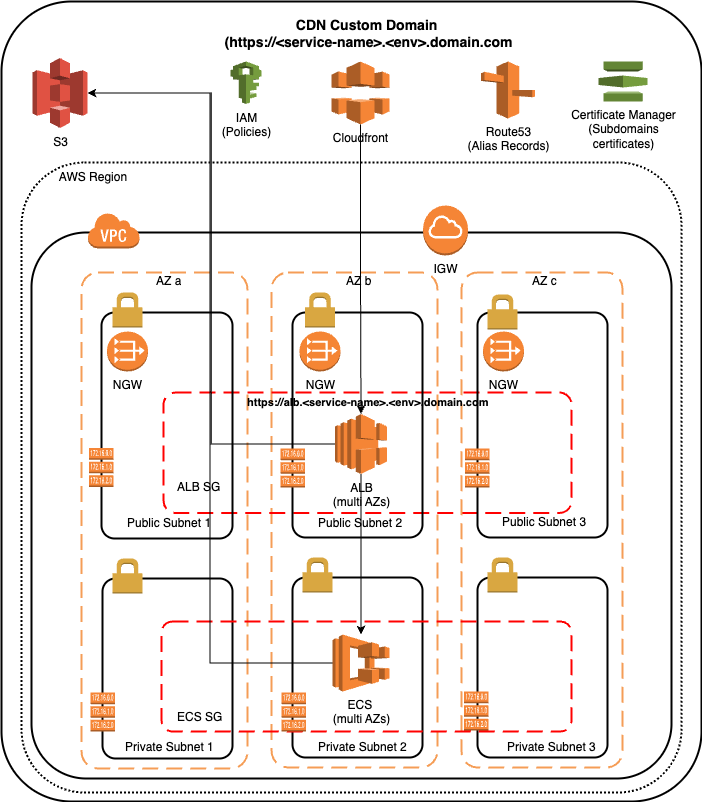
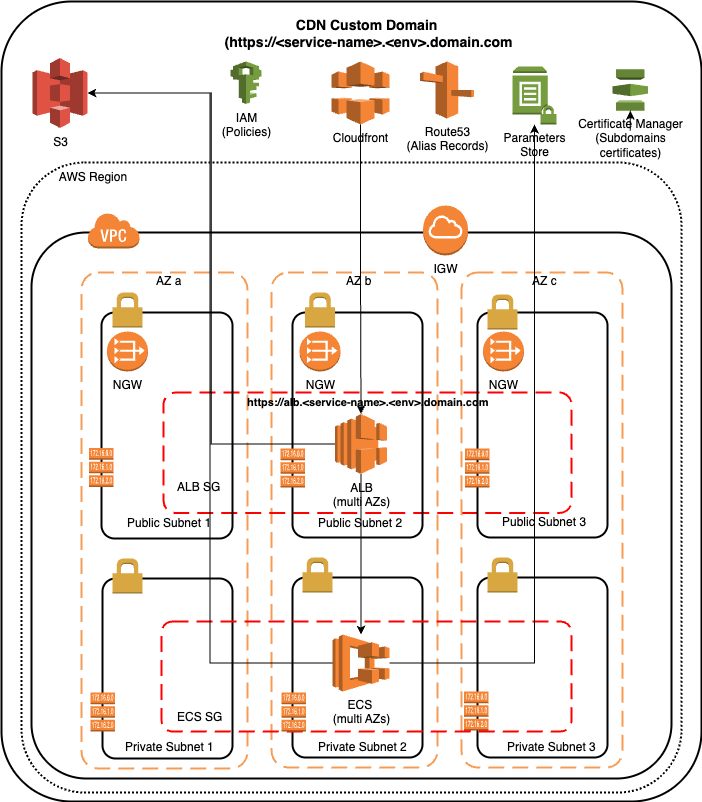
- Added the parameters store integration in ECS Task definition     - Saved the secret string in parameter store     - Moved to a default Custom image (cillu/nodejs-app:1.0.0)     - Updated the README file

Changed region(s): [[0.5684, 0.0623, 0.9573, 0.2182]]

diff --git a/nodejs-app/app.js b/nodejs-app/app.js
@@ -1,0 +1,11 @@
+const express = require('express');
+const app = express();
+const secret = process.env.APP_SECRET_PARAMETER;
+
+app.get('/', (req, res) => {
+  res.send(`<center><h1>Hello from the node-js App for Terraform DevOps Test!<center></h1><br> This is a secret from AWS Parameter Store:<b> ${secret} </b>`);
+});
+
+app.listen(3000, () => {
+  console.log('App running on port 3000');
+});

diff --git a/README.md b/README.md
@@ -18,6 +18,7 @@ The module creates the following resources:
 - **ECS Cluster**: an ECS Cluster Multi-AZ in created in the public subnets. 
   - **ECS Tasks and Service**: ECS resources are created in order to deploy the provided image 
   - **ECS Security Group**: a security group is created and assigned to the ECS Service in order to allow the traffic only from the ALB
+- **Secret string in Parameter Store**: a secret string used from the deploted node-js app
 - **Application Load Balancer**: an Multi-Az ALB is deployed in the public subnets. 
   - **ALB Listeners**: the ALB is configured with the following rules:
     - Cloudfront sends a Custom Header that contains a header with a pre-defined key. ALB deny access with an error 403 if the key doesn’t match. Otherwise it forward the request the ECS Service instances
@@ -53,10 +54,11 @@ Module Input Variables
 | service_name |  string | Yes | - | The name of the service
 | environment | string  | Yes | - | The environment (e.g., dev, staging, prod)
 | cdn_secret_header | string | Yes | - | Predefined Key for the CDN secret header
+| app_secret_parameter | string | Yes | - | Secret String used from the nodejs App (cillu/nodejs-app:1.0.0)
 | zone_id | string | Yes | - | Route53 zone ID (used to create the custome domain for CF and ALB)
 | aws_region | string | No | eu-central-1 | The target AWS region
 | vpc_cidr | string  | No | 192.168.0.0/16 | The CIDR block for the VPC
-| app_image |  string | No | duplocloud/nodejs-hello:latest | The deployed application image (on DockerHub)
+| app_image |  string | No | cillu/nodejs-app:1.0.0 | The deployed application image (on DockerHub)
 | app_port | number | No | 3000 | The deployed application port
 | app_fargate_cpu |  string | No | 256 | The amount of Fargate CPU to use
 | app_fargate_memory | string | No | 512 | The amount of Fargate memory to use
@@ -75,7 +77,10 @@ Usage
 
 Assuming:
 - you downloaded this module locally 
-- you have a secrets.tfvars file which contains the CDN secrets value (variable cdn_secret_header). (**Don't commit this file in your repository**)
+- you have a secrets.tfvars file (don't commit this file in your repository) which contain:
+  - the CDN secret value (variable cdn_secret_header)
+  - the provided zone_id
+  - the app_secret_parameter = "mysecret"
 
 
 ### Deploy a dev stack in eu-central-1
@@ -133,12 +138,13 @@ git clone https://github.com/thecillu/devops-aws-tf
 - cd to an example dir:
 cd devops-aws-tf/examples/eu-central1-dev
 
-- create the file secrets.tfvars contains your sensitive variables
+- create the file secrets.tfvars containing your sensitive variables
 
 secrets.tfvars
 ```
 cdn_secret_header = "MySecretHeader"
 zone_id = "<your-zone-id>"
+app_secret_parameter = "mysecret"
 ```
 - create the stack:
 
@@ -151,12 +157,17 @@ this will provide you the following output:
 app_https_url="https://my-service.dev.<your-zone-domain>"
 ```
 
+- Open the provided url in the browser, the app should show:
+
+![nodejs.app](./nodejs-app.png)
+
 - destroy 
 
 Remember to destroy the stack resources:
 ```bash
 terraform destroy -var-file="secrets.tfvars"
 ```
+
 
 Authors
 =======

diff --git a/CHANGELOG.md b/CHANGELOG.md
@@ -10,6 +10,22 @@ All notable changes to this project will be documented in this file.
 
 ### Removed
 
+## [v0.2.0] - 2024-04-13
+
+### Added
+
+- Added the parameters store integration in ECS Task definition
+- Saved the secret string in parameter store
+
+### Fixed
+
+### Changed
+
+- Moved to a default Custom image (cillu/nodejs-app:1.0.0)
+- Updated the README file
+
+### Removed
+
 ## [v0.1.0] - 2024-04-13
 
 ### Added
